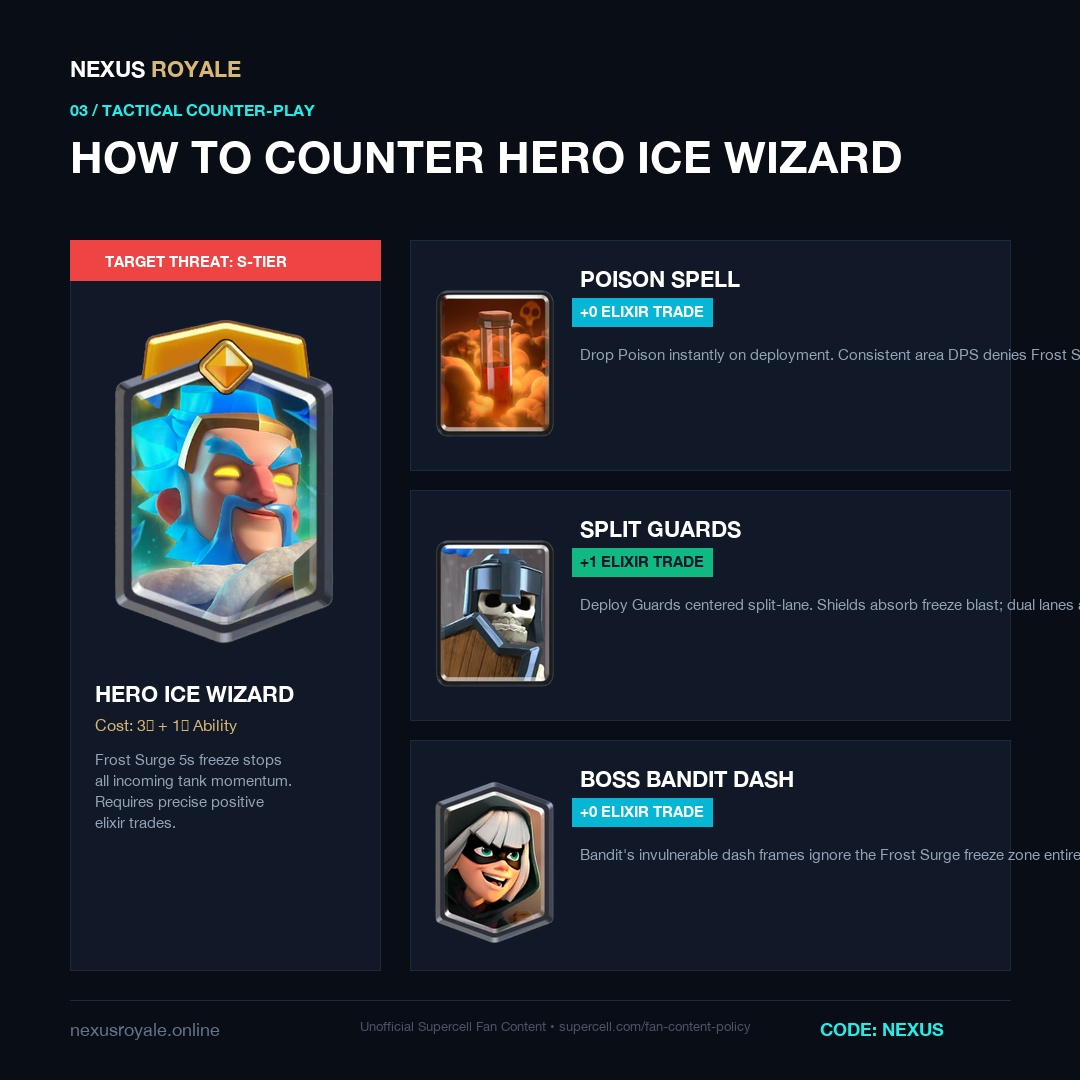
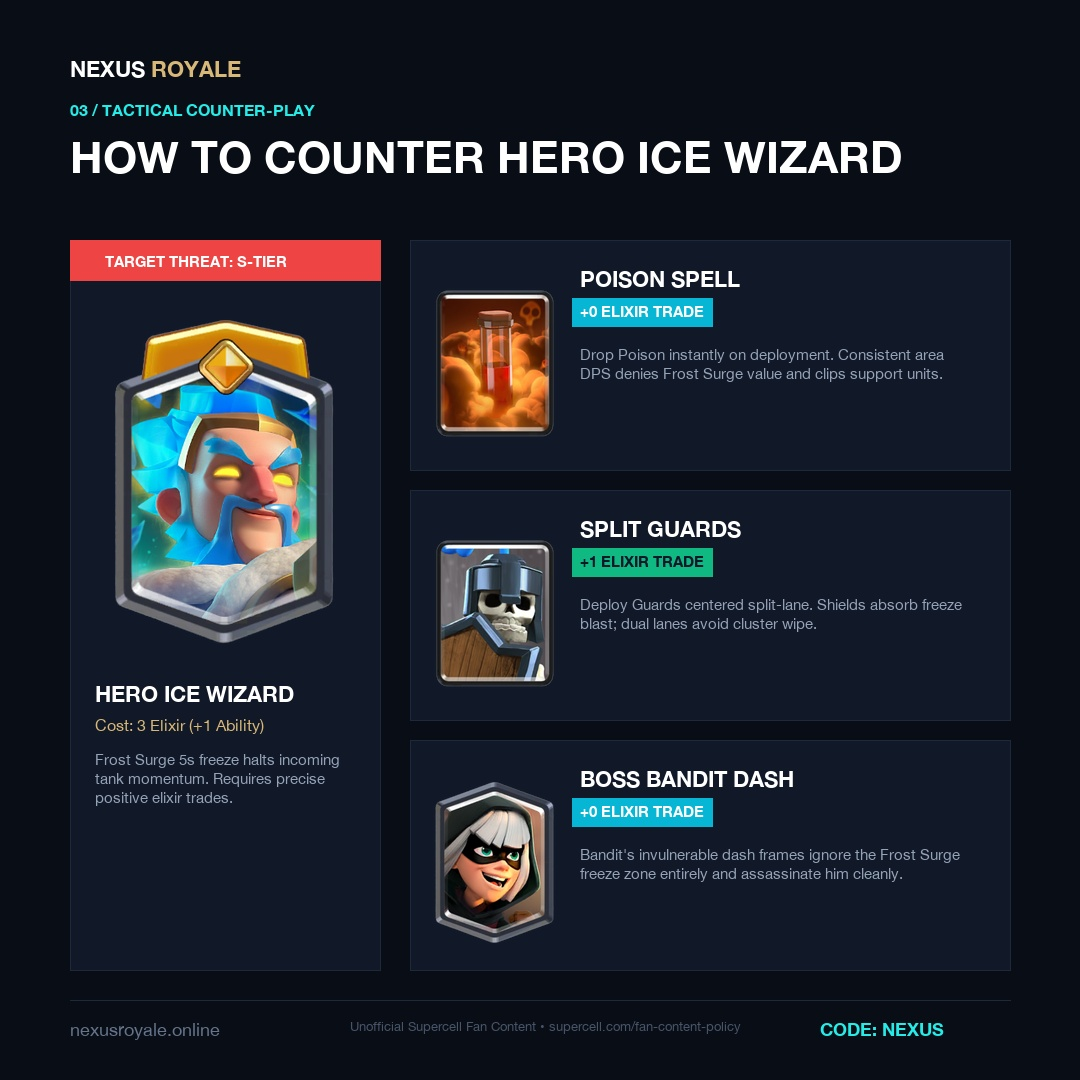
Fix social graphic text wrapping and font glyphs

diff --git a/scripts/content_engine.py b/scripts/content_engine.py
@@ -49,8 +49,31 @@ def draw_standard_header(draw, category, headline):
 def draw_standard_footer(draw):
     draw.line([(70, 1000), (1010, 1000)], fill="#1e293b", width=1)
     draw.text((70, 1018), "nexusroyale.online", font=get_font(18, bold=False), fill="#64748b")
-    draw.text((360, 1018), "Unofficial Supercell Fan Content • supercell.com/fan-content-policy", font=get_font(13, bold=False), fill="#475569")
+    draw.text((350, 1018), "Unofficial Supercell Fan Content • supercell.com/fan-content-policy", font=get_font(13, bold=False), fill="#475569")
     draw.text((820, 1018), "CODE: NEXUS", font=get_font(18, bold=True), fill="#26ece8")
+
+def draw_wrapped_text(draw, pos, text, font, fill, max_width, line_spacing=6):
+    words = text.split()
+    lines = []
+    current_line = []
+    for word in words:
+        test_line = " ".join(current_line + [word])
+        bbox = draw.textbbox((0, 0), test_line, font=font)
+        if (bbox[2] - bbox[0]) <= max_width:
+            current_line.append(word)
+        else:
+            if current_line:
+                lines.append(" ".join(current_line))
+            current_line = [word]
+    if current_line:
+        lines.append(" ".join(current_line))
+    
+    x, y = pos
+    for line in lines:
+        draw.text((x, y), line, font=font, fill=fill)
+        bbox = draw.textbbox((x, y), line, font=font)
+        y += (bbox[3] - bbox[1]) + line_spacing
+    return y
 
 def paste_card(canvas, card_filename, pos, size=(175, 257)):
     fp = os.path.join(CARDS_DIR, card_filename)
@@ -80,7 +103,6 @@ def generate_meta_spotlight():
     draw.text((510, 290), "PILOT: MOHAMED LIGHT", font=get_font(18, bold=True), fill="#ffffff")
     draw.text((510, 316), "AVG ELIXIR: 3.6 • USE RATE: 11.4%", font=get_font(16, bold=False), fill="#94a3b8")
 
-    # 8-Card Grid
     row1 = [
         ("pekka_evo.png", "EVO SLOT", "#c084fc"),
         ("ice-wizard_hero.png", "HERO SLOT", "#eab308"),
@@ -103,7 +125,6 @@ def generate_meta_spotlight():
     for i, (fn, tag, col) in enumerate(row1):
         x = xs[i]
         paste_card(img, fn, (x, y1), size=(card_w, card_h))
-        # Draw slot badge above card
         draw.rectangle([x, y1 + card_h - 26, x + card_w, y1 + card_h], fill="#0f172a")
         draw.text((x + 10, y1 + card_h - 22), tag, font=get_font(13, bold=True), fill=col)
 
@@ -171,7 +192,7 @@ def generate_balance_shifts():
         
         # Stat breakdown & note
         draw.text((210, y + 62), stat, font=get_font(18, bold=True), fill="#e2e8f0")
-        draw.text((210, y + 100), note, font=get_font(15, bold=False), fill="#94a3b8")
+        draw_wrapped_text(draw, (210, y + 98), note, font=get_font(15, bold=False), fill="#94a3b8", max_width=770)
         y += 182
 
     draw_standard_footer(draw)
@@ -200,7 +221,7 @@ def generate_balance_shifts():
     }
 
 # -------------------------------------------------------------
-# 3. Counter This Card Post (Target vs Counters)
+# 3. Counter This Card Post (Target vs Counters with Clean Wrap)
 # -------------------------------------------------------------
 def generate_counter_guide():
     img = create_base_canvas()
@@ -215,14 +236,22 @@ def generate_counter_guide():
     paste_card(img, "ice-wizard_hero.png", (105, 305), size=(240, 353))
     
     draw.text((95, 680), "HERO ICE WIZARD", font=get_font(22, bold=True), fill="#ffffff")
-    draw.text((95, 715), "Cost: 3⚡ + 1⚡ Ability", font=get_font(16, bold=False), fill="#d8b878")
-    draw.text((95, 750), "Frost Surge 5s freeze stops\nall incoming tank momentum.\nRequires precise positive\nelixir trades.", font=get_font(15, bold=False), fill="#94a3b8", spacing=6)
+    draw.text((95, 715), "Cost: 3 Elixir (+1 Ability)", font=get_font(16, bold=False), fill="#d8b878")
+    draw_wrapped_text(
+        draw, 
+        (95, 750), 
+        "Frost Surge 5s freeze halts incoming tank momentum. Requires precise positive elixir trades.", 
+        font=get_font(15, bold=False), 
+        fill="#94a3b8", 
+        max_width=265,
+        line_spacing=5
+    )
 
     # Right Box: 3 Verified Counters
     counters = [
         ("poison.png", "POISON SPELL", "+0 ELIXIR TRADE", "Drop Poison instantly on deployment. Consistent area DPS denies Frost Surge value and clips support units.", "#06b6d4"),
         ("guards.png", "SPLIT GUARDS", "+1 ELIXIR TRADE", "Deploy Guards centered split-lane. Shields absorb freeze blast; dual lanes avoid cluster wipe.", "#10b981"),
-        ("bandit.png", "BOSS BANDIT DASH", "+0 ELIXIR TRADE", "Bandit's invulnerable dash frames ignore the Frost Surge freeze zone entirely and assassinate him.", "#06b6d4")
+        ("bandit.png", "BOSS BANDIT DASH", "+0 ELIXIR TRADE", "Bandit's invulnerable dash frames ignore the Frost Surge freeze zone entirely and assassinate him cleanly.", "#06b6d4")
     ]
 
     y = 240
@@ -237,8 +266,16 @@ def generate_counter_guide():
         draw.rectangle([tbbox[0]-8, y+58, tbbox[2]+8, y+86], fill=col)
         draw.text((580, y + 62), trade, font=get_font(15, bold=True), fill="#0f172a" if col == "#10b981" else "#ffffff")
         
-        # Desc
-        draw.text((580, y + 105), desc, font=get_font(15, bold=False), fill="#94a3b8", spacing=6)
+        # Multi-line Wrapped Description (Fits inside card cleanly)
+        draw_wrapped_text(
+            draw, 
+            (580, y + 105), 
+            desc, 
+            font=get_font(15, bold=False), 
+            fill="#94a3b8", 
+            max_width=390, 
+            line_spacing=5
+        )
         y += 250
 
     draw_standard_footer(draw)
@@ -276,7 +313,7 @@ def generate_2v2_radar():
     draw.rectangle([70, 240, 1010, 340], fill="#111827", outline="#1e293b", width=1)
     draw.text((95, 255), "GLOBAL 2V2 LEAGUE • TOP 500 SYNERGY SCORE", font=get_font(15, bold=True), fill="#d8b878")
     draw.text((95, 280), "62.4% DUO WIN RATE", font=get_font(44, bold=True), fill="#10b981")
-    draw.text((580, 290), "DUO COMBO: TANK ANCHOR + SPELL PRESSURE", font=get_font(16, bold=False), fill="#94a3b8")
+    draw.text((540, 290), "DUO COMBO: TANK ANCHOR + SPELL PRESSURE", font=get_font(16, bold=False), fill="#94a3b8")
 
     # Player 1 Deck Panel
     draw.rectangle([70, 360, 1010, 640], fill="#0f172a", outline="#1e293b", width=1)
